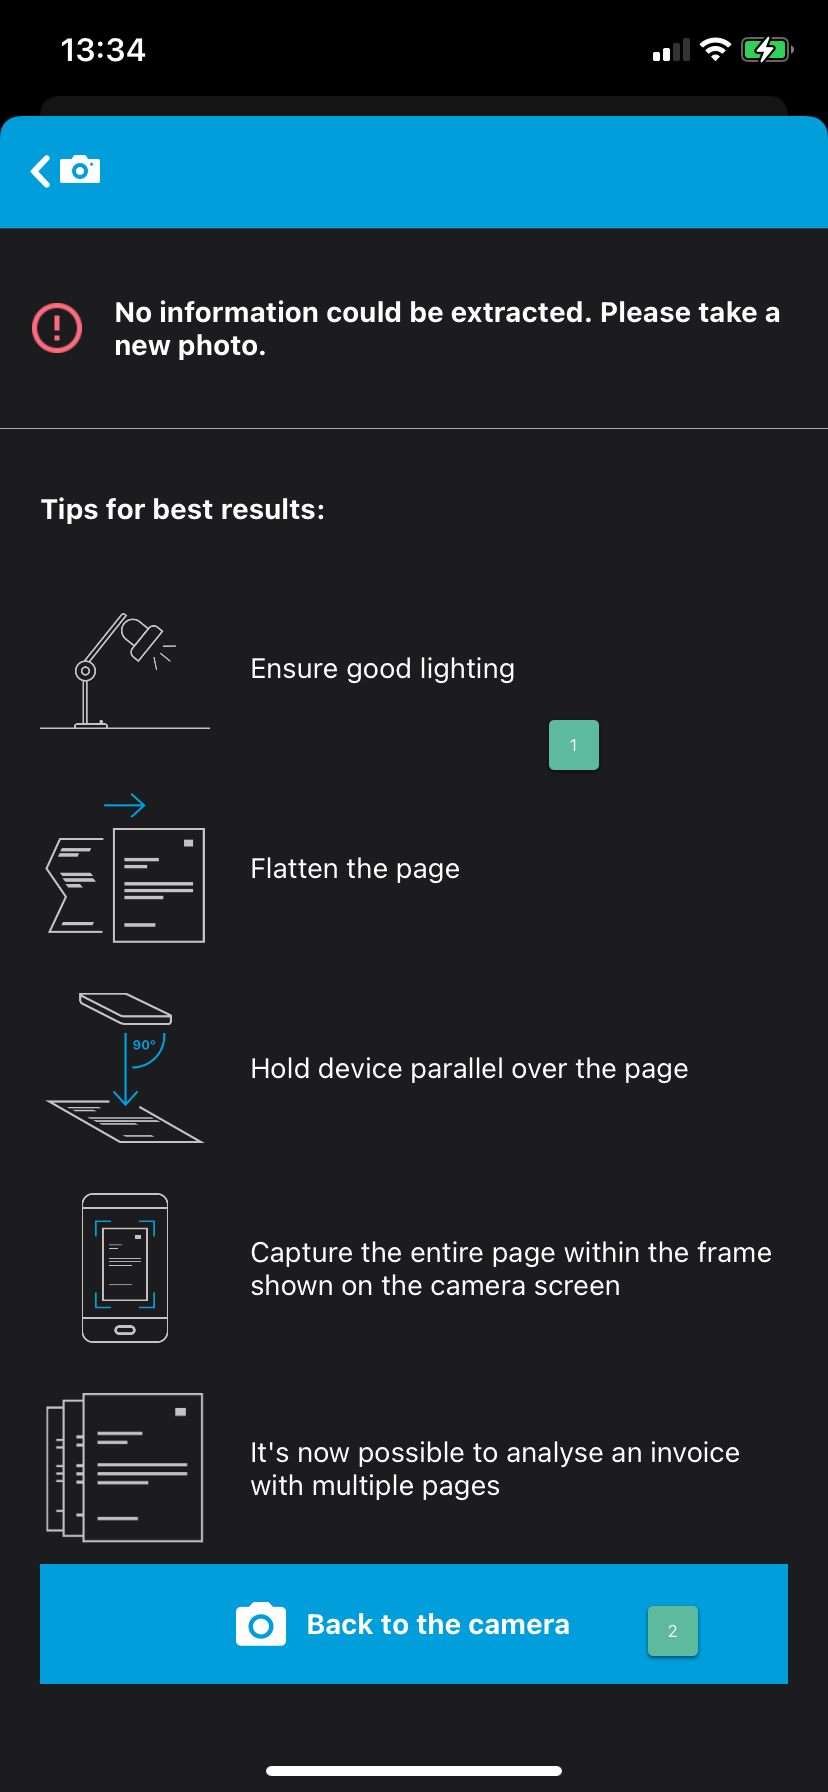
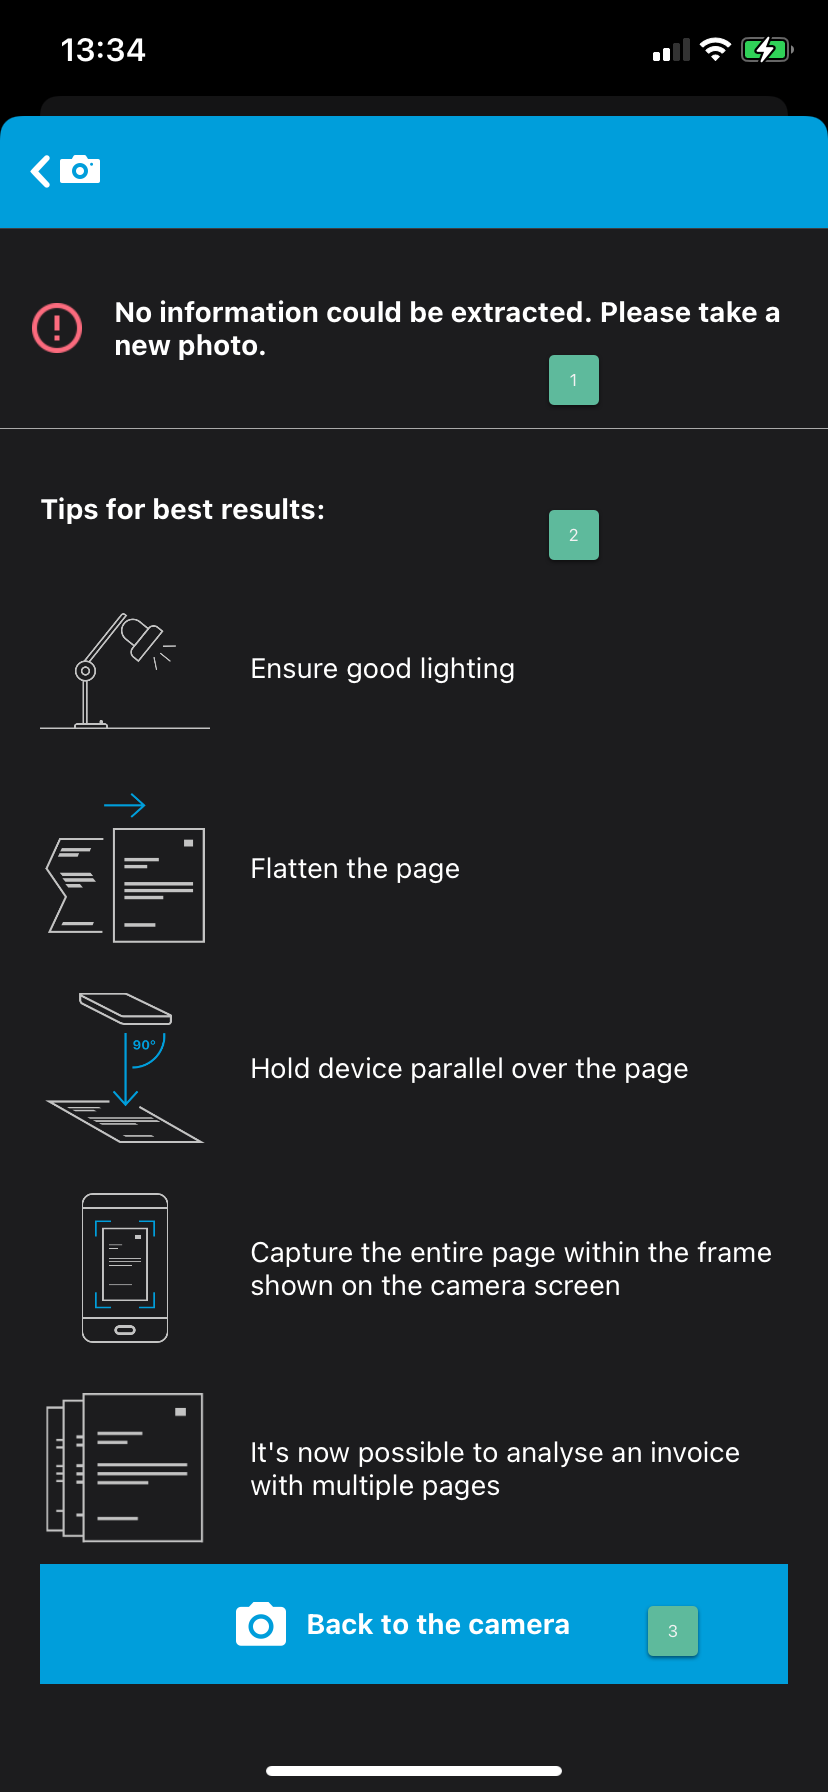
docs(GiniBankSDK): Update `No results` and add `Tips for photos` screens.
PIA-2420

Changed region(s): [[0.6643, 0.375, 0.7246, 0.4375], [0.6643, 0.1875, 0.7246, 0.25], [0.6643, 0.2812, 0.7246, 0.3125]]

diff --git a/BankSDK/GiniBankSDK/Documentation/source/Customization guide.md b/BankSDK/GiniBankSDK/Documentation/source/Customization guide.md
@@ -235,19 +235,29 @@ Some background and text colors use the `GiniColor` type with which you can set 
 ## Capturing tips screen
 
 <br>
-<center><img src="img/Customization guide/No results.jpg" height="500"/></center>
+<center><img src="img/Customization guide/Tips for photo.png" height="500"/></center>
 </br>
 
-##### 1. Capturing tip images
+##### 1. Navigation bar
+- Title &#8594; <span style="color:#009EDF">*ginicapture.noresults.title*</span> localized string
+
+##### 2. Header container
+- Text &#8594; <span style="color:#009EDF">*ginicapture.noresults.warningHelpMenu*</span> localized string
+
+##### 3. Capturing tip images
 - Tip 1 image &#8594; <span style="color:#009EDF">*captureSuggestion1*</span> image asset
 - Tip 2 image &#8594; <span style="color:#009EDF">*captureSuggestion2*</span> image asset
 - Tip 3 image &#8594; <span style="color:#009EDF">*captureSuggestion3*</span> image asset
 - Tip 4 image &#8594; <span style="color:#009EDF">*captureSuggestion4*</span> image asset
 - Tip 5 image &#8594; <span style="color:#009EDF">*captureSuggestion5*</span> image asset
 
-##### 2. Go to camera button
+##### 4. Go to camera button
 - Background color &#8594; `GiniBankConfiguration.noResultsBottomButtonColor`
-
+- Back button
+    noResultsBottomButtonColor
+  - With image and title
+      - Image &#8594; <span style="color:#009EDF">*cameraIcon*</span> image asset
+      - Title &#8594; <span style="color:#009EDF">*ginicapture.noresults.gotocamera*</span> localized string
 ## Gallery album screen
 
 <br>
@@ -287,7 +297,6 @@ Some background and text colors use the `GiniColor` type with which you can set 
 </br>
 
 ##### 1. Navigation bar
-
 - Back button
   - With image and title
 	  - Image &#8594; <span style="color:#009EDF">*navigationHelpBack*</span> image asset
@@ -296,15 +305,12 @@ Some background and text colors use the `GiniColor` type with which you can set 
 	  - Title &#8594; `GiniBankConfiguration.navigationBarHelpMenuTitleBackToCameraButton`
 
 ##### 2. Table View Cells
-
 - Background color &#8594; `GiniBankConfiguration.helpScreenCellsBackgroundColor` using `GiniColor` with dark mode and light mode colors
 
 ##### 3. Background
-
 - Background color &#8594; `GiniBankConfiguration.helpScreenBackgroundColor` using `GiniColor` with dark mode and light mode colors
 
 ##### 4. Additional help menu items
-
 - Custom help menu items &#8594; `GiniBankConfiguration.customMenuItems` an array of `HelpMenuViewController.Item` objects
 
 ## No results screen
@@ -313,22 +319,29 @@ Some background and text colors use the `GiniColor` type with which you can set 
 <center><img src="img/Customization guide/No results.png" height="500"/></center>
 </br>
 
-##### 1. Back to camera button
+##### 1. Warning container
+- Background color &#8594; `GiniBankConfiguration.noResultsWarningContainerIconColor`
+- Image &#8594; <span style="color:#009EDF">*warningNoResults*</span> image asset
+- Title &#8594; <span style="color:#009EDF">*ginicapture.noresults.warning*</span> localized string
 
+##### 2. Tips for photo collection
+- Header title &#8594; <span style="color:#009EDF">*ginicapture.noresults.collection.header*</span> localized string
+
+Overriding tips images below will lead to the changes on the [Capturing tips screen](#capturing-tips-screen).
+
+- Tip 1 image &#8594; <span style="color:#009EDF">*captureSuggestion1*</span> image asset
+- Tip 2 image &#8594; <span style="color:#009EDF">*captureSuggestion2*</span> image asset
+- Tip 3 image &#8594; <span style="color:#009EDF">*captureSuggestion3*</span> image asset
+- Tip 4 image &#8594; <span style="color:#009EDF">*captureSuggestion4*</span> image asset
+- Tip 5 image &#8594; <span style="color:#009EDF">*captureSuggestion5*</span> image asset
+
+##### 3. Back to camera button
 - Background color &#8594; `GiniBankConfiguration.noResultsBottomButtonColor`
-
 - Back button
     noResultsBottomButtonColor
   - With image and title
-      - Image &#8594; <span style="color:#009EDF">*navigationHelpBack*</span> image asset
-      - Title &#8594; <span style="color:#009EDF">*ginicapture.navigationbar.help.backToCamera*</span> localized string
-  - With title only
-      - Title &#8594; `GiniBankConfiguration.navigationBarHelpMenuTitleBackToCameraButton`
-
-##### 2. Warning container icon
-
-- Background color &#8594; `GiniBankConfiguration.noResultsWarningContainerIconColor`
-
+      - Image &#8594; <span style="color:#009EDF">*cameraIcon*</span> image asset
+      - Title &#8594; <span style="color:#009EDF">*ginicapture.noresults.gotocamera*</span> localized string
 ## Albums screen
 
 <br>
@@ -336,5 +349,5 @@ Some background and text colors use the `GiniColor` type with which you can set 
 </br>
 
 ##### 1. Select more photos button
-
 - Text color &#8594; `GiniBankConfiguration.albumsScreenSelectMorePhotosTextColor` using `GiniColor` with dark mode and light mode colors
+- Title &#8594; <span style="color:#009EDF">*ginicapture.albums.selectMorePhotosButton*</span> localized string
